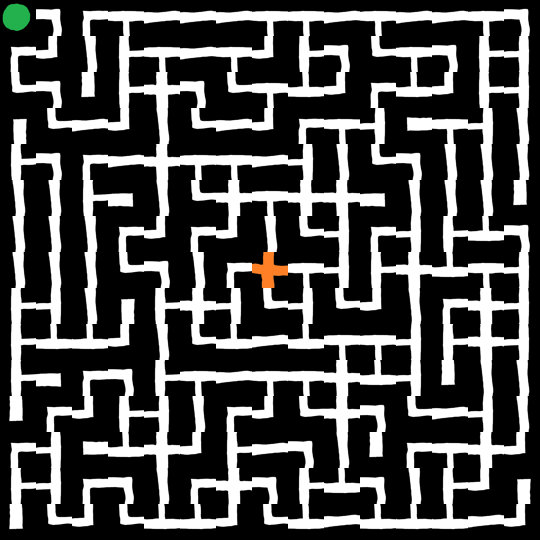
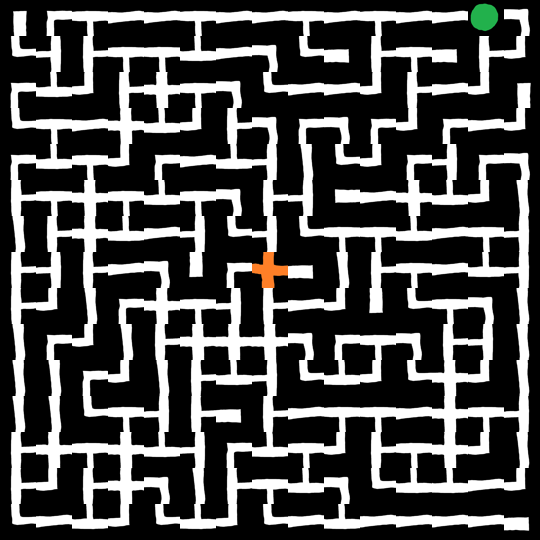
modification taille joueur

Changed region(s): [[0.0, 0.0, 1.0, 1.0], [0.8593, 0.0, 0.9481, 0.0889]]

diff --git a/main.py b/main.py
@@ -13,7 +13,7 @@ TILE_SIZE = 36  # réduit pour tenir à l'écran
 IMG = "image/"
 
 PLAYERS_COLOR = [(255, 0, 0), (91, 245, 39), (0, 0, 255)]
-PLAYER_RADIUS = 6  # point plus petit
+PLAYER_RADIUS = 3  # point plus petit
 
 # =========================
 # DIRECTIONS
